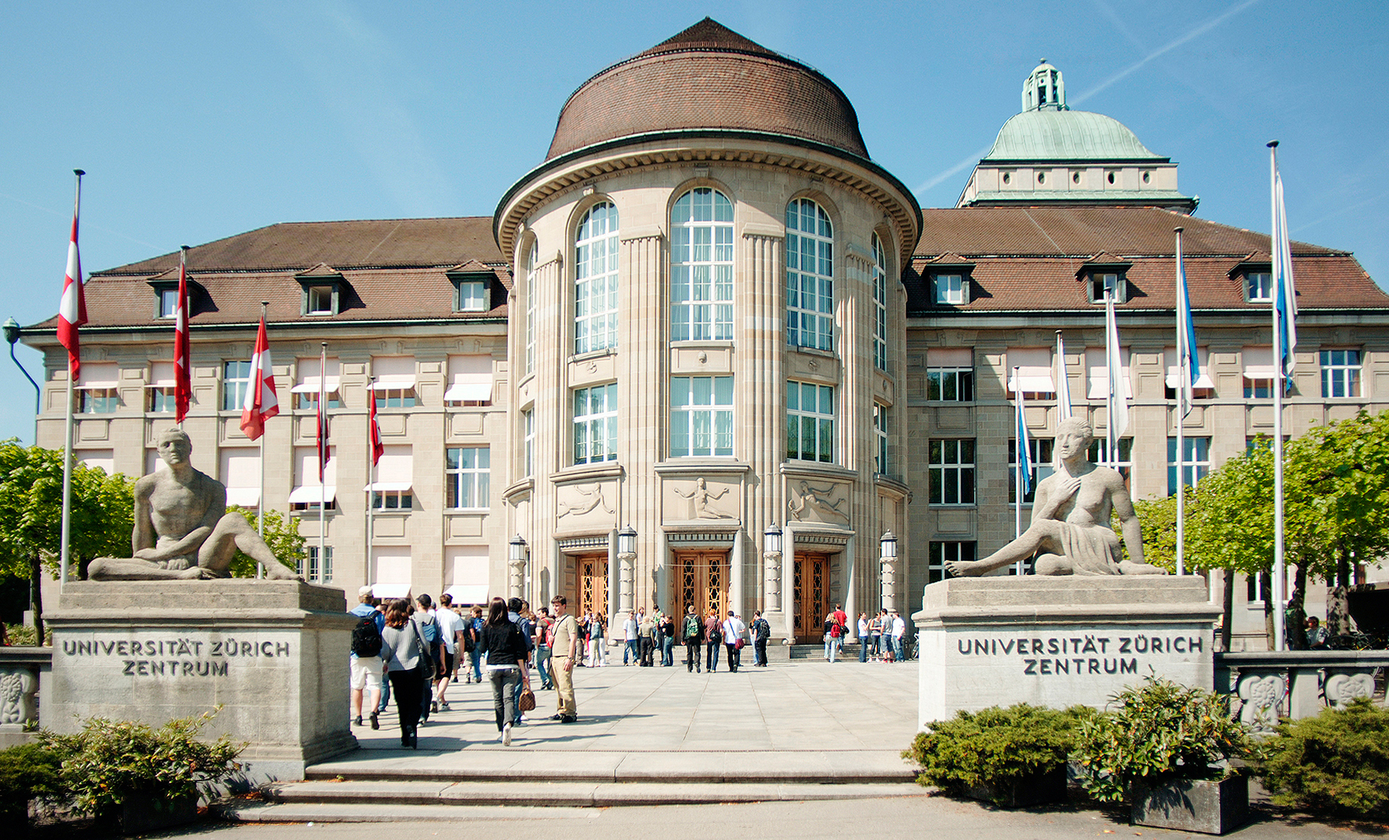
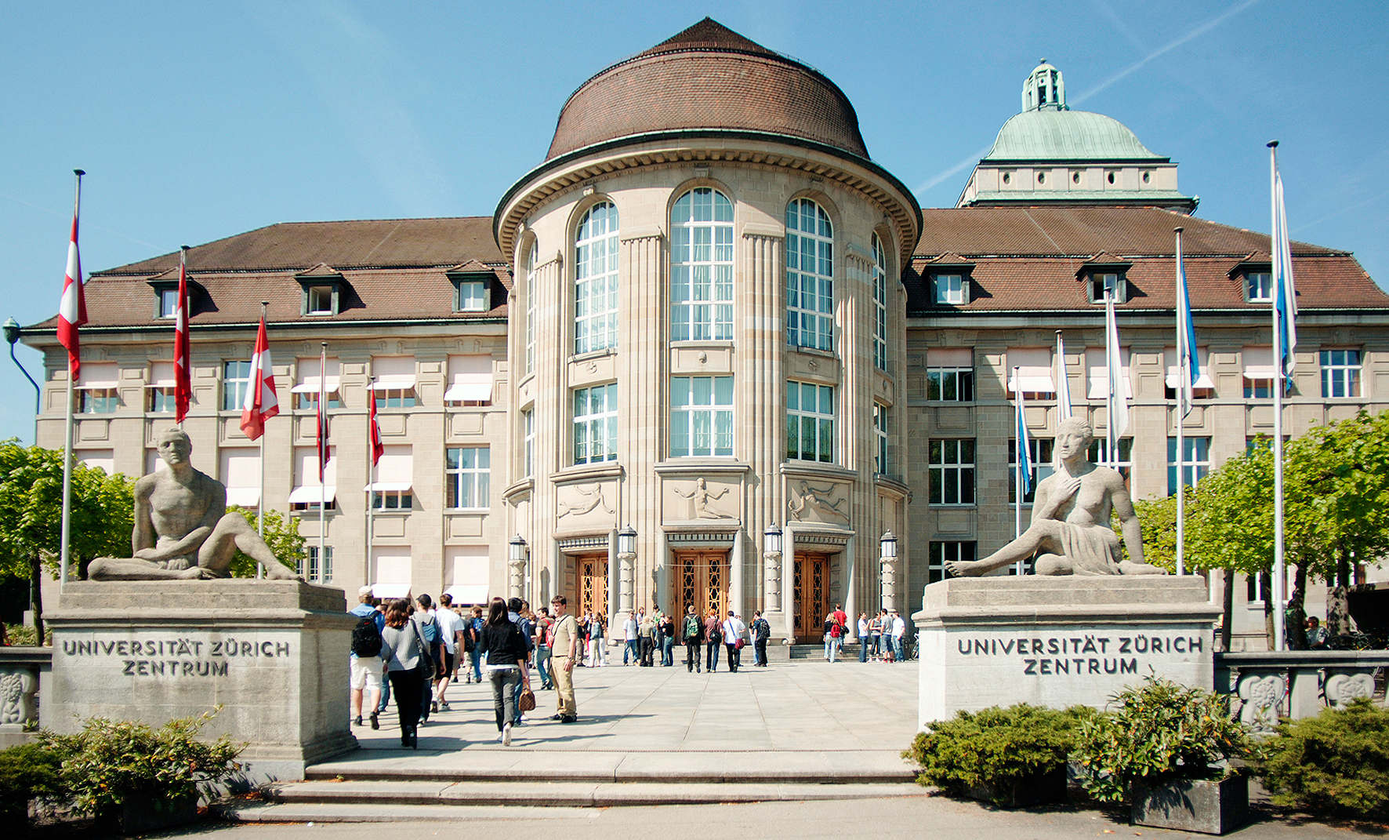
compressed images

diff --git a/index.html b/index.html
@@ -3,5 +3,5 @@
 # To modify the layout, see https://jekyllrb.com/docs/themes/#overriding-theme-defaults
 
 layout: home
-background: '/assets/images/uzh_usz_eth.png'
+background: '/assets/images/uzh_usz_eth.jpg'
 ---

diff --git a/news.md b/news.md
@@ -2,7 +2,7 @@
 layout: news
 title: News
 permalink: /news/
-background: '/assets/images/uzh_usz_eth.png'
+background: '/assets/images/uzh_usz_eth.jpg'
 ---
 
 <a class="twitter-timeline" href="https://twitter.com/krauthammerlab?ref_src=twsrc%5Etfw">Tweets by krauthammerlab</a> <script async src="https://platform.twitter.com/widgets.js" charset="utf-8"></script> 

diff --git a/opportunities.md b/opportunities.md
@@ -2,7 +2,7 @@
 layout: page
 title: Opportunities
 permalink: /opportunities/
-background: '/assets/images/uzh_usz_eth.png'
+background: '/assets/images/uzh_usz_eth.jpg'
 ---
 
 We currently have no open positions, but we are always interested in receiving applications from qualified students and postdocs. Please contact the Lab PI.

diff --git a/research.md b/research.md
@@ -2,7 +2,7 @@
 layout: page
 title: Research
 permalink: /research/
-background: '/assets/images/uzh_usz_eth.png'
+background: '/assets/images/uzh_usz_eth.jpg'
 ---
 
 [Our Lab GitHub](https://github.com/uzh-dqbm-cmi)

diff --git a/index.md b/index.md
@@ -1,6 +1,6 @@
 ---
 layout: home
-background: '/assets/images/uzh_usz_eth.png'
+background: '/assets/images/uzh_usz_eth.jpg'
 ---
 
 ## Welcome
